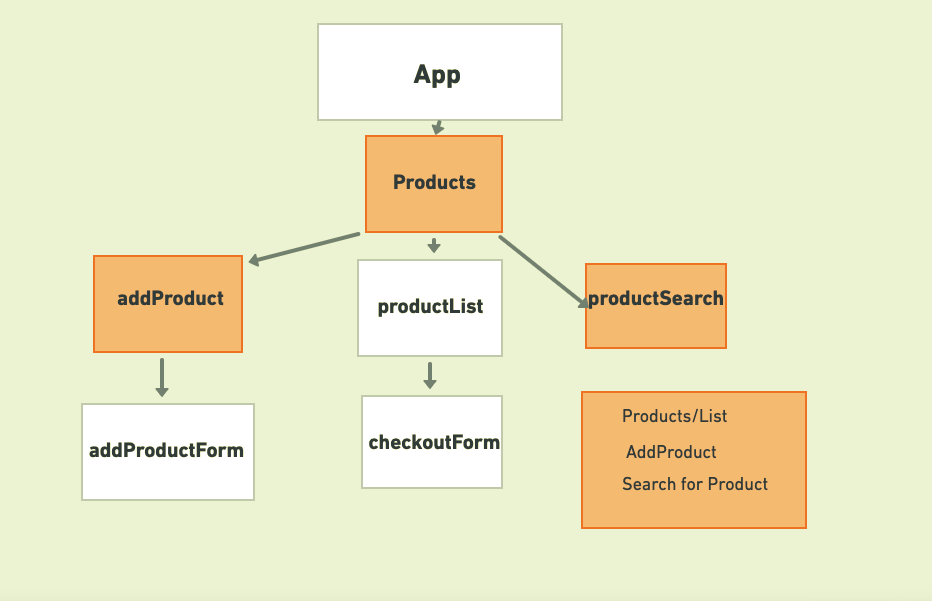
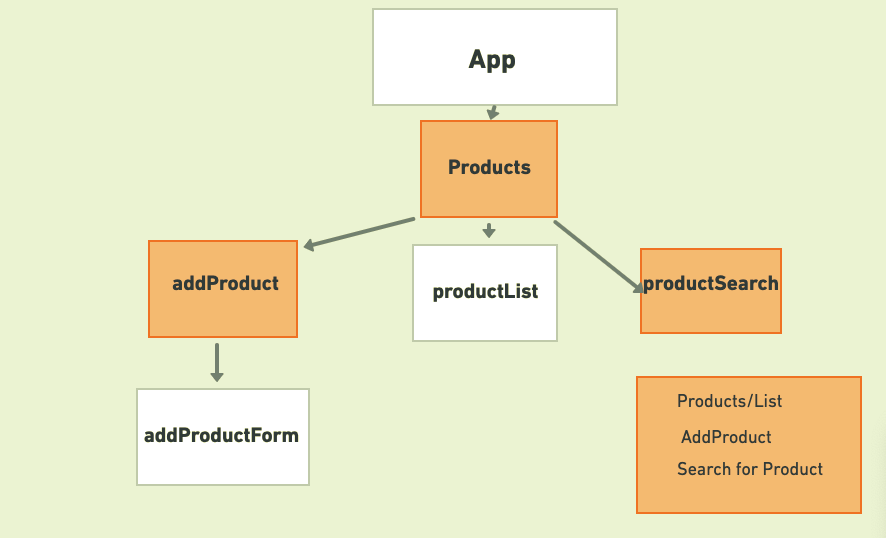
update

diff --git a/README.md b/README.md
@@ -10,8 +10,7 @@ The name of your project.
 ## Project Description
 
 In this project,a fully functional e-commerce web application will be built in React JS, using https://airtable.com/api api design.
-<<<<<<< HEAD
-=======
+
 In the backend, the E-commerce administrator will be able to do the following:
 1 Able to add new product with no image
 2 Edit product
@@ -19,7 +18,6 @@ In the backend, the E-commerce administrator will be able to do the following:
 On the the front end, customer/user will be able to do the following:
 1 View list of product in the store
 2 Add product to the shopping cart
->>>>>>> a6b82732f948844d26b0290ba0a6288662d96ebf
 
 - Able to add new product with url images
 - Edit product
@@ -28,10 +26,6 @@ On the the front end, customer/user will be able to do the following:
 
 ## Wireframes
 
-<<<<<<< HEAD
-=======
-
->>>>>>> a6b82732f948844d26b0290ba0a6288662d96ebf
 <table align="center">
   <tr>
     <td align="center">Home Page</td>
@@ -58,25 +52,11 @@ On the the front end, customer/user will be able to do the following:
     <td><img src="Images-for-javascript/backend.png" width=1080 height=1000></td>
      </tr>
  </table>
- 
- 
- <table align="center">
-  <tr>
-    <td align="center">Checkout</td>
-    </tr>
-  <tr>
-    <td><img src="Images-for-javascript/checkout.png" width=1080 height=1000></td>
-     </tr>
- </table>
-
-<<<<<<< HEAD
-=======
-
-Upload images of your wireframes to an image hosting site or add them to an assets folder in your repo and link them here with a description of each specific wireframe.
 
 
 
->>>>>>> a6b82732f948844d26b0290ba0a6288662d96ebf
+Upload images of your wireframes to an image hosting site or add them to an assets folder 
+
 <table align="center">
   <tr>
     <td align="center"> Component Hierarchy</td>
@@ -90,50 +70,48 @@ Upload images of your wireframes to an image hosting site or add them to an asse
 
 ```json
 {
-    "records": [
-        {
-            "id": "recUWgp8y9KdGjiaI",
-            "fields": {
-                "name": "Gold Watch",
-                "category": "Accessory",
-                "description": "Danish design by Jakob Wagner for a timeless look Interchangeable straps for versatility Ethical packaging for a more sustainable tomorrow Dial Colour...",
-                "price": "30",
-                "qauntity": "10"
-            },
-            "createdTime": "2021-03-26T13:10:03.000Z"
-        },
-        {
-            "id": "recNIie1gm7CsH70H",
-            "fields": {
-                "name": "Philosopher - BUNDLE White",
-                "category": "Accessory",
-                "description": "Ethical packaging for a more sustainable tomorrow",
-                "price": "40",
-                "qauntity": "20"
-            },
-            "createdTime": "2021-03-26T13:10:03.000Z"
-        },
-        {
-            "id": "recL5Lclb4v9qWsvs",
-            "fields": {
-                "name": "Womens Gold Rolex Watch 16233",
-                "category": "Accessory",
-                "description": "Rolex Datejust 36MM with a Jubilee Band. You can customize the bezel type between Gold Fluted Bezel or Diamond Bezel",
-                "price": "50",
-                "qauntity": "52"
-            },
-            "createdTime": "2021-03-26T13:10:03.000Z"
-        }
-    ],
-    "offset": "recL5Lclb4v9qWsvs"
+  "records": [
+    {
+      "id": "recUWgp8y9KdGjiaI",
+      "fields": {
+        "name": "Gold Watch",
+        "category": "Accessory",
+        "description": "Danish design by Jakob Wagner for a timeless look Interchangeable straps for versatility Ethical packaging for a more sustainable tomorrow Dial Colour...",
+        "price": "30",
+        "qauntity": "10"
+      },
+      "createdTime": "2021-03-26T13:10:03.000Z"
+    },
+    {
+      "id": "recNIie1gm7CsH70H",
+      "fields": {
+        "name": "Philosopher - BUNDLE White",
+        "category": "Accessory",
+        "description": "Ethical packaging for a more sustainable tomorrow",
+        "price": "40",
+        "qauntity": "20"
+      },
+      "createdTime": "2021-03-26T13:10:03.000Z"
+    },
+    {
+      "id": "recL5Lclb4v9qWsvs",
+      "fields": {
+        "name": "Womens Gold Rolex Watch 16233",
+        "category": "Accessory",
+        "description": "Rolex Datejust 36MM with a Jubilee Band. You can customize the bezel type between Gold Fluted Bezel or Diamond Bezel",
+        "price": "50",
+        "qauntity": "52"
+      },
+      "createdTime": "2021-03-26T13:10:03.000Z"
+    }
+  ],
+  "offset": "recL5Lclb4v9qWsvs"
 }
-
 ```
 
 ### MVP/PostMVP
 
 #### MVP
-<<<<<<< HEAD
 
 -View list of product in the store
 -Able to add new product with image url
@@ -143,20 +121,21 @@ Upload images of your wireframes to an image hosting site or add them to an asse
 
 - Add authenticaton
 - add stripe payment
-- shipping
-=======
--Able to add new product with images
--Edit product
- -Delete product.
+- # shipping
+  -Able to add new product with images
+  -Edit product
+  -Delete product.
+
 ### On the the front end, customer/user will be able to do the following:
+
 1 View list of product in the store
+
 #### PostMVP
 
 _These are examples only. Replace with your own Post-MVP features._
 
 - Add authenticaton
 - add stripe payment
->>>>>>> a6b82732f948844d26b0290ba0a6288662d96ebf
 
 ## Project Schedule
 
@@ -175,16 +154,15 @@ This schedule will be used to keep track of your progress throughout the week an
 
 ## Timeframes
 
-| Component        | Priority | Estimated Time | Time Invested | Actual Time |
-| ---------------- | :------: | :------------: | :-----------: | :---------: |
-| Adding prduct Form      |    H     |      3hrs      |        |       |
-| Working with API |    H     |      3hrs      |        |       |
-| Total            |    H     |      6hrs      |          |        |
+| Component          | Priority | Estimated Time | Time Invested | Actual Time |
+| ------------------ | :------: | :------------: | :-----------: | :---------: |
+| Adding prduct Form |    H     |      3hrs      |               |             |
+| Working with API   |    H     |      3hrs      |               |             |
+| Total              |    H     |      6hrs      |               |             |
 
 ## SWOT Analysis
 
 ### Strengths:
-<<<<<<< HEAD
 
 I can put this together in using react using examples of what we have been doing in the class
 
@@ -192,19 +170,18 @@ I can put this together in using react using examples of what we have been doing
 
 UI/styling and positioning of it tags is still a challenge for me
 
-=======
- I can put this together in using react using examples of what we have been doing in the class
+I can put this together in using react using examples of what we have been doing in the class
+
 ### Weaknesses:
- UI/styling and positioning of it tags is still a challenge for me
->>>>>>> a6b82732f948844d26b0290ba0a6288662d96ebf
+
+UI/styling and positioning of it tags is still a challenge for me
+
 ### Opportunities:
+
 A chance for me to play with uploading images
 
 A chance for me to play with uploading images
 
 ### Threats:
-<<<<<<< HEAD
 
-=======
->>>>>>> a6b82732f948844d26b0290ba0a6288662d96ebf
 I don't see any threats here now
